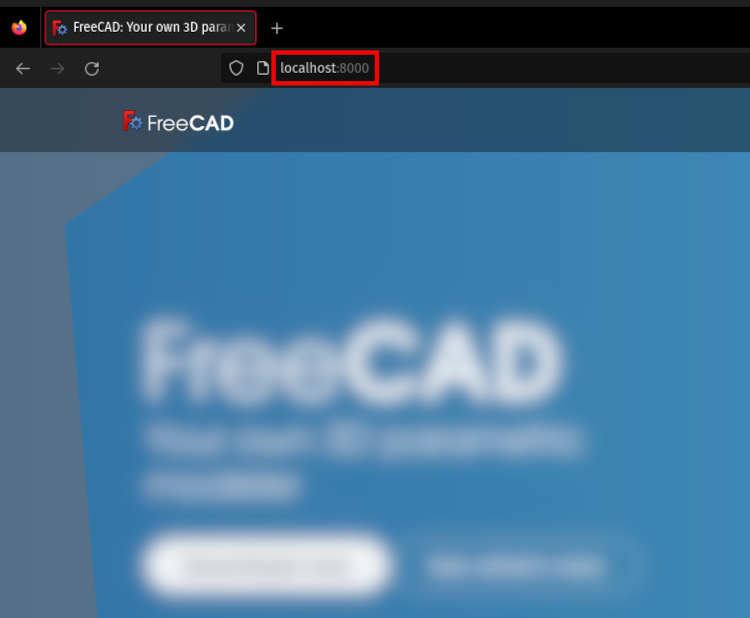
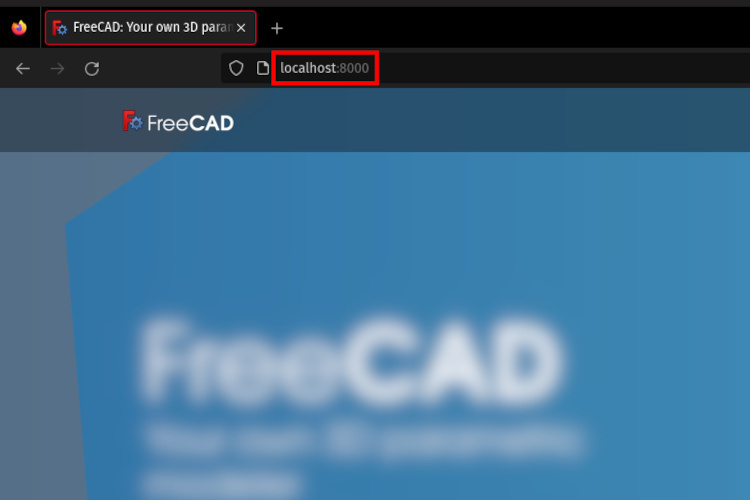
Add more content and update images

diff --git a/technical/FreeCADweb.md b/technical/FreeCADweb.md
@@ -12,9 +12,43 @@ TODO
 
 ## Running locally
 
-TODO
+During development and before committing your changes, you may want to display the website in your web browser locally, without installing a full web server solution stack like XAMPP.\
+You can instead just transcribe the PHP files into HTML that your web broswer can read.
+
+1) To do so, fork the original FreeCAD-Homepage repository to your personal GitHub account :
+
+![Fork the repository](./ressources/FreeCADweb_01.jpg)
+
+2) If you don't have an account or prefer to inspect and modify files locally without relying on GitHub's features, download the compressed folder and unzipp it :
+
+![Download the repository](./ressources/FreeCADweb_02.jpg)
+
+3) From GitHub Desktop app, clone the fork you just created (skip this step if you downloaded the zip in step 2) :
+
+![Clone the fork](./ressources/FreeCADweb_03.jpg)
+
+4) Make sure PHP is installed on your system (on GNU/Linux in 2023, install the PHP8 CLI package).
+
+5) Go to your local cloned copy of the repository, in the folder you specified previously ("FreeCAD-Homepage" in this case), and open the terminal at working-directory location :
+
+![Open Terminal in cloned local repo](./ressources/FreeCADweb_05.jpg)
+
+6) Paste `php -S 127.0.0.1:8000` to start the PHP server locally:
+
+![Start PHP server](./ressources/FreeCADweb_06.jpg)
+
+7) Open a new tab in your web browser with `localhost:8000` to display the "index.php" file of the web page correctly.\
+If you want to reach a particular file, use `localhost:8000/MyFile.php`.
+
+![Start PHP server](./ressources/FreeCADweb_07.jpg)
+
+N.B: the translation of the web pages does not work.
 
 ## Design guidelines
+
+TODO
+
+## Managing translations
 
 TODO
 
